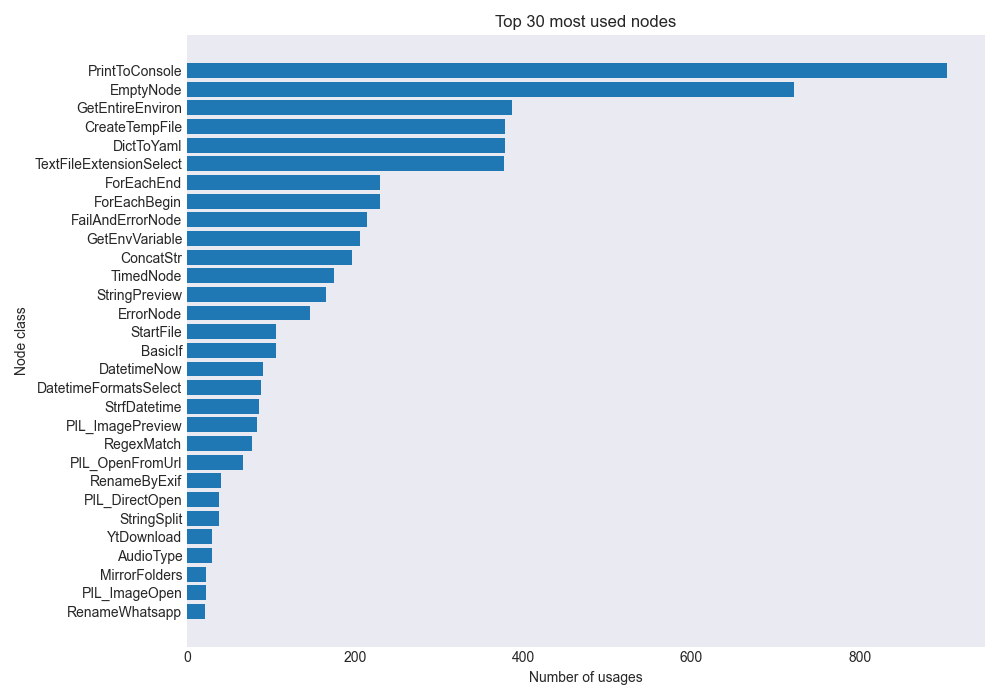
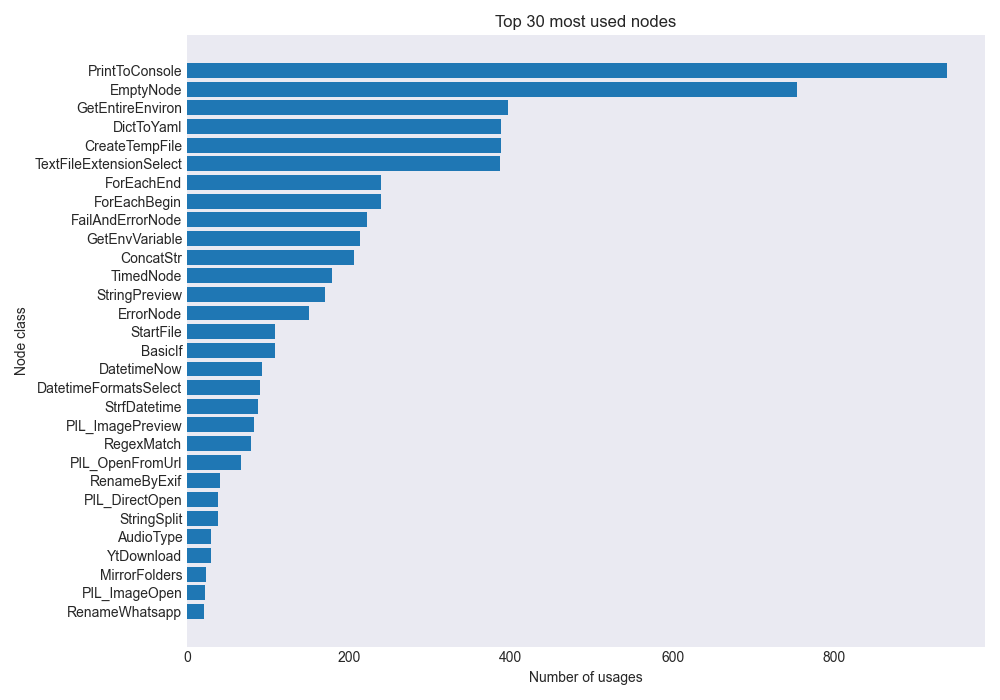
[#75] Fix analytics (#77)

diff --git a/src/all_nodes/analytics/analytics.py b/src/all_nodes/analytics/analytics.py
@@ -33,9 +33,9 @@ mongo_client = None
 try:
     mongo_client = MongoClient(CONNECTION_STRING)
     LOGGER.debug(mongo_client.admin.command("ping"))
-    LOGGER.debug(f"Connected to MongoDB for analytics, username: {DB_USERNAME}")
+    LOGGER.info(f"Connected to MongoDB for analytics, username: {DB_USERNAME}")
 except Exception:
-    LOGGER.debug("No statistics will be submitted")
+    LOGGER.info("No statistics will be submitted!")
 
 
 # -------------------------------- METHODS -------------------------------- #
@@ -108,8 +108,8 @@ def process_analytics():
         [
             {"$match": {"run_date": {"$ne": None}}},
             {"$group": {"_id": "$run_date", "count": {"$sum": 1}}},
-            {"$sort": {"run_date": 1}},
-            {"$limit": 30},
+            {"$sort": {"_id": 1}},
+            {"$limit": 35},
         ]
     )
 
@@ -124,6 +124,7 @@ def process_analytics():
         for tick in ax.get_xticklabels():
             tick.set_rotation(45)
             tick.set_horizontalalignment("right")
+            tick.set_fontsize(9)
         ax.set_ylabel("Amount of nodes run")
         ax.set_title("Recent usage")
 
@@ -187,7 +188,9 @@ def process_analytics():
     if res:
         df = pl.DataFrame(list(res))
 
-        df_grouped = df.group_by(["class_name", "run_date"]).count()
+        df_grouped = df.group_by(
+            ["class_name", "run_date"], maintain_order=True
+        ).count()
 
         node_names = df_grouped["class_name"].to_list()
         failed_date = df_grouped["run_date"].to_list()
@@ -231,7 +234,11 @@ def process_analytics():
     )
 
     if res:
-        df_grouped = df.group_by(["class_name", "run_date"]).count()
+        df = pl.DataFrame(list(res))
+
+        df_grouped = df.group_by(
+            ["class_name", "run_date"], maintain_order=True
+        ).count()
 
         node_names = df_grouped["class_name"].to_list()
         failed_date = df_grouped["run_date"].to_list()

diff --git a/README.md b/README.md
@@ -273,8 +273,7 @@ logic_scene.run_all_nodes()
 ```
 
 # 📈 Analytics
-Automatically generated once a month
-(For personal use, they are not gathered from any other user)
+Automatically generated once a month **(for personal use, they are not gathered from any other user)**
 ![](https://raw.githubusercontent.com/jaimervq/all_nodes/main/docs/analytics/recent_usage.png)
 ![](https://raw.githubusercontent.com/jaimervq/all_nodes/main/docs/analytics/most_used.png)
 ![](https://raw.githubusercontent.com/jaimervq/all_nodes/main/docs/analytics/errored.png)
